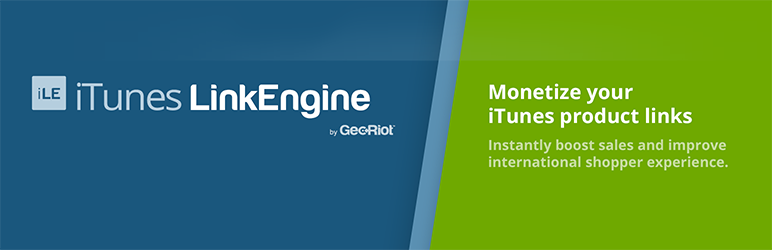
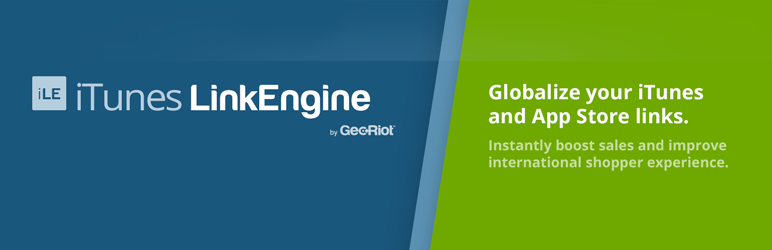
Changed options.php wording and readme

diff --git a/itunes-link-engine/trunk/options.php b/itunes-link-engine/trunk/options.php
@@ -383,7 +383,7 @@
 <div class="wrap">
   <h2>iTunes Link Engine <span class="gr-bygr">by </span>
     <a href="http://georiot.com" target="_blank"><img class='gr-georiot-logo' src="<?php print $gr_image_path ?>georiot_logo.png" width="66" height="12" /></a></h2>
-  <p class="gr-intro">This plugin has added Javascript that converts all iTunes product
+  <p class="gr-intro">This plugin has added Javascript that converts all iTunes
     URLs on your site to global-friendly GeoRiot links. <a href="#faq-whatisgeoriot">Learn more...</a>
   </p>
 
@@ -407,7 +407,7 @@
         2
       </div>
       <div class="gr-step-info">
-          <strong>Gain Insight with traffic reports.</strong> <a href="http://www.georiot.com/wordpress-plugin/sign-up">Create a free GeoRiot account</a> and enter your API keys here.
+          <strong>Gain Insight with traffic reports.</strong> <a href="http://www.georiot.com/wordpress-plugin/itunes-sign-up">Create a free GeoRiot account</a> and enter your API keys here.
           <a href="#faq-apikeys">Learn how...</a>
 
           <br><br>
@@ -444,7 +444,7 @@
         3
       </div>
       <div class="gr-step-info">
-        <strong>Monetize your traffic:</strong> Earn commissions for every sale by <a href="http://manage.georiot.com/Affiliate">connecting affiliate programs</a>.
+        <strong>Monetize your traffic:</strong> Earn commissions for every sale by <a href="http://manage.georiot.com/Affiliate">connecting your PHG affiliate program</a>.
         <br>
         <div id="gr-affiliates-spinner">
           <div class="css-only-spinner">
@@ -492,28 +492,27 @@
       <h3>Frequently asked questions</h3>
 
       <h4 id="faq-whatisgeoriot">What is GeoRiot</h4>
-      <p>GeoRiot is a link management platform that maximizes your potential iTunes Associates revenue
-        by globalizing and affiliating your iTunes Links.  GeoRiot hopes to change the way online
-        commerce is conducted by providing its customers with intelligent links that automatically
-        route customers to the correct product within their own local storefront.
+      <p>GeoRiot is a link management platform that maximizes your potential iTunes affiliate revenue by globalizing and affiliating your iTunes Links. GeoRiot hopes to change the way online commerce is conducted by providing its clients with intelligent links that automatically route customers to the correct product within their own local storefront.
       </p>
 
       <h4 id="faq-whatisgeoriot">Do I need a GeoRiot Account to use this plugin?</h4>
       <p><strong>No,</strong> you do NOT need a GeoRiot account to use the iTunes Link Engine plugin.
-        As soon as you download the free plugin, all of your links will be automatically
-        localized, and your customers will be routed to the product in their local storefront.
-        However, if you want to add your affiliate parameters, you will need a GeoRiot account.
+        As soon as you download the free plugin, all of your links will be automatically localized,
+        and your customers will be routed to the correct product in their local storefront.  However,
+        if you want to add your affiliate parameters, you will need a GeoRiot account.
       </p>
 
       <h4 id="faq-apikeys">How do I get my API keys?</h4>
       <p>To get your GeoRiot API Keys, follow these simple steps:
       </p>
       <ol>
-        <li>If you do not have a GeoRiot account, <a href="http://www.georiot.com/wordpress-plugin/sign-up">create a free account</a>.</li>
+        <li>If you do not have a GeoRiot account, <a href="http://www.georiot.com/Wordpress-Plugin/iTunes-Sign-Up">create a free account</a>.</li>
 
         <li>Log into your GeoRiot Dashboard, and navigate to the to the Account Tab.</li>
 
         <li>Click the “plus” sign to get your API keys.</li>
+        
+        <li>Navigate to the iTunes Link Engine settings under “Settings” in your WordPress dashboard.</li>
 
         <li>Next, simply copy and paste the “Key” and “Secret” codes into the “Enable Reporting and Commissions” area of the plugin.<br>
           <strong>Please note:</strong> It may take up to 3 minutes for new keys to become available for use after adding them to your dashboard.</li>
@@ -522,25 +521,25 @@
       </ol>
 
 
-      <h4 id="faq-international">How do I earn International Commissions?</h4>
+      <h4 id="faq-international">How do I affiliate my links?</h4>
       <p>
         First, connect the plugin to your GeoRiot account (see “How do I get my API keys?”).  Then, follow the steps below:</p>
       <ol>
-        <li>Add your iTunes Affiliate parameters to your GeoRiot dashboard.  Instructions on how to do this can be found <a href="http://support.georiot.com/support/solutions/articles/71867-add-existing-affiliate">here</a>.
-        <br><strong>Note:</strong> If you’ve already done this within your existing GeoRiot account, you do not need to add your parameters again.
+        <li>Add your PHG affiliate parameter to your GeoRiot dashboard.  Instructions on how to do this can be found <a href="http://support.georiot.com/support/solutions/articles/71867-add-existing-affiliate">here</a>.
+        <br><strong>Note:</strong> If you’ve already done this within your existing GeoRiot account, you do not need to add your parameter again.
         </li>
-        <li> You’re all set!  You’ll start earning international commissions from anything purchased in iTunes’s international storefronts.</li>
+        <li> You’re all set! You’ll start earning commissions from anything purchased from iTunes.</li>
+        <p>
+          <strong>Please Note:</strong> If you are already using affiliated links on your website, they will not remain affiliated if you use the iTunes Link Engine Plugin.  In order to affiliate your links, you must <a href="http://www.georiot.com/Wordpress-Plugin/iTunes-Sign-Up">sign up for a GeoRiot account</a> and add your affiliate parameters to the dashboard.  Once you have done this, and connected your account using the API keys, each of your links will be automatically affiliated.
+        </p>
       </ol>
-
-
+               
+               
       <h4 id="faq-pay">Do I have to pay for GeoRiot?</h4>
-      <p><strong>No,</strong>  you never need to give us a credit card or make payments to
+      <p><strong>No,</strong> you never need to give us a credit card or make payments to
         use the GeoRiot Service. The service is always free.
       </p>
-      <p>At GeoRiot, clicks are our currency, and we earn money the way you do –
-        through international affiliate programs. With our “Click Share” payment model,
-        we simply take a maximum of 15% of your total clicks from the additional international
-        clicks that we help you monetize.
+      <p>At GeoRiot, clicks are our currency, and we earn money the way you do – through international affiliate programs. With our “<a href="http://www.georiot.com/our-solution/pay-with-clicks">Click Share</a>” payment model, you simply share a maximum of 15% of your international clicks with GeoRiot. We then affiliate those clicks with our affiliate parameter instead.
       </p>
       <p><strong>Please note: By default, GeoRiot's affiliate parameters will be used until
           you have added your own via the GeoRiot dashboard.</strong>

diff --git a/itunes-link-engine/trunk/itunes-link-engine.php b/itunes-link-engine/trunk/itunes-link-engine.php
@@ -3,7 +3,7 @@
 Plugin Name: iTunes Link Engine
 Plugin URI:
 Description: Automatically optimizes iTunes product links for your global audience and allows you to earn commissions on sales.
-Version: 1.0.0
+Version: 1.0.1
 Author: GeoRiot Networks, Inc.
 Author URI: http://georiot.com
 */
